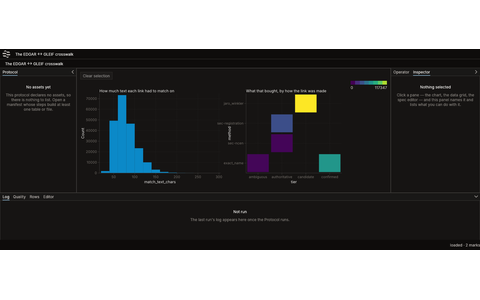
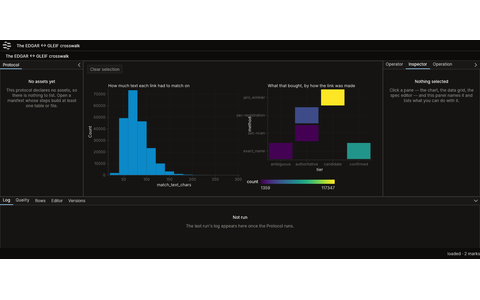
Restore the crosswalk chart's colour legend, below the grid, and re-shoot its thumbnails (#384)
The nightly network workflow has failed every run since early September. Its failure is the thumbnail-drift gate on the `edgar-gleif-crosswalk-chart` start. This pull request gives that start's grid its colour legend back, puts the legend where it does not cover the grid's title, and re-shoots the start's two thumbnails from what CI renders.

**What the drift was.** The published data has not moved. The open lake's DuckLake catalog holds one snapshot of the crosswalk, taken on 2026-09-21. The Parquet the start reads was last modified that day, before the thumbnails were last re-shot on 2026-09-30. The drift is on the rendering side: these are the only start thumbnails the per-push suite cannot regenerate, because rendering them fetches over https. So each interface change re-shot the other twelve and left this pair behind. The diff went from about 1,300 pixels to about 45,000 in the first days of October.

**A regression the red nightly hid.** Since early October the shell has drawn a colour legend only where the file declares one. The colour-scaled specs in `examples/` gained a legend at that point, and the examples test holds them to it. That test reads only the flat `examples/` directory, and this spec lives in `examples/remote/`, so the crosswalk chart's count grid has drawn with no legend since.
[…]

diff --git a/crates/brightfield-shell/tests/crosswalk_chart.rs b/crates/brightfield-shell/tests/crosswalk_chart.rs
@@ -63,6 +63,7 @@ use brightfield_render::sample_policy::{renders_complete, sample_exponent, MEASU
 use brightfield_shell::starts;
 use brightfield_spec::analysis::{analyse_spec, ComponentPath, SpecAnalysis};
 use brightfield_spec::ast::Spec;
+use brightfield_spec::edit::{colour_legend_placement, LegendPlacement};
 use brightfield_spec::parse::{parse_spec, Format};
 use brightfield_sql::emit::{collect_marks, emit_query_sampled};
 use brightfield_sql::ir::{Predicate, SampleRate, ScalarValue, SelectionPredicate};
@@ -393,6 +394,41 @@ fn the_grid_groups_by_the_method_that_made_the_link() {
         !sql.contains("key_type"),
         "the grid still reads key_type, which the header of \
          examples/remote/edgar-gleif-crosswalk.yaml says it does not:\n{sql}"
+    );
+}
+
+/// The grid's colour legend is drawn under the grid, and the histogram has
+/// none.
+///
+/// The grid's fill is a count, so without a legend its colours say nothing a
+/// reader can read. The shell draws a colour legend where the file declares
+/// one, and `examples_exercise.rs` holds the flat `examples/` directory to
+/// that, not `examples/remote/`, so this holds the shipped chart to it here.
+/// Below rather than at the right: a legend at a plot's right is drawn level
+/// with the plot's top, and this grid's title is wider than what that band
+/// leaves the plot, so the two drew over each other.
+#[test]
+fn the_grid_draws_its_colour_legend_below_it() {
+    let (spec, _) = shipped();
+    let groups = brightfield_sql::collect_plot_groups(&spec);
+    let histogram = &groups
+        .first()
+        .expect("the shipped chart has plots")
+        .plot_path;
+    let grid = &groups
+        .last()
+        .expect("the shipped chart has plots")
+        .plot_path;
+    assert_ne!(histogram, grid, "the shipped chart has two plots");
+    assert_eq!(
+        colour_legend_placement(&spec, grid),
+        LegendPlacement::Below,
+        "the grid at {grid} does not draw its colour legend below it"
+    );
+    assert_eq!(
+        colour_legend_placement(&spec, histogram),
+        LegendPlacement::None,
+        "the histogram at {histogram} has a colour legend, and it has no colour scale"
     );
 }
 
